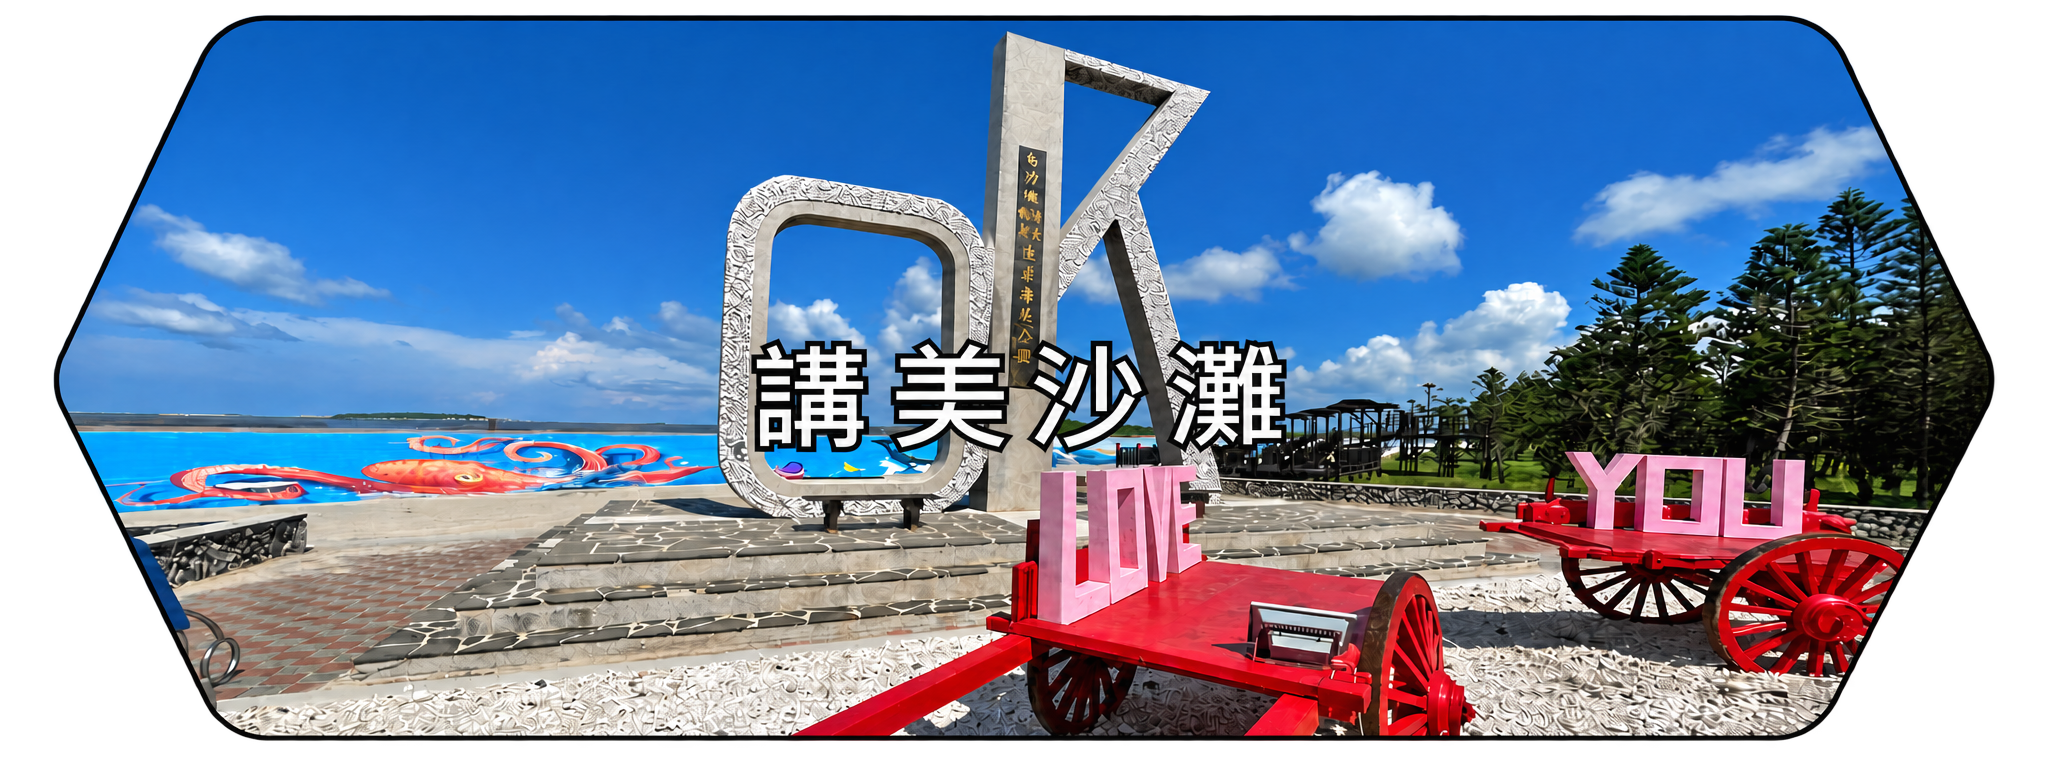
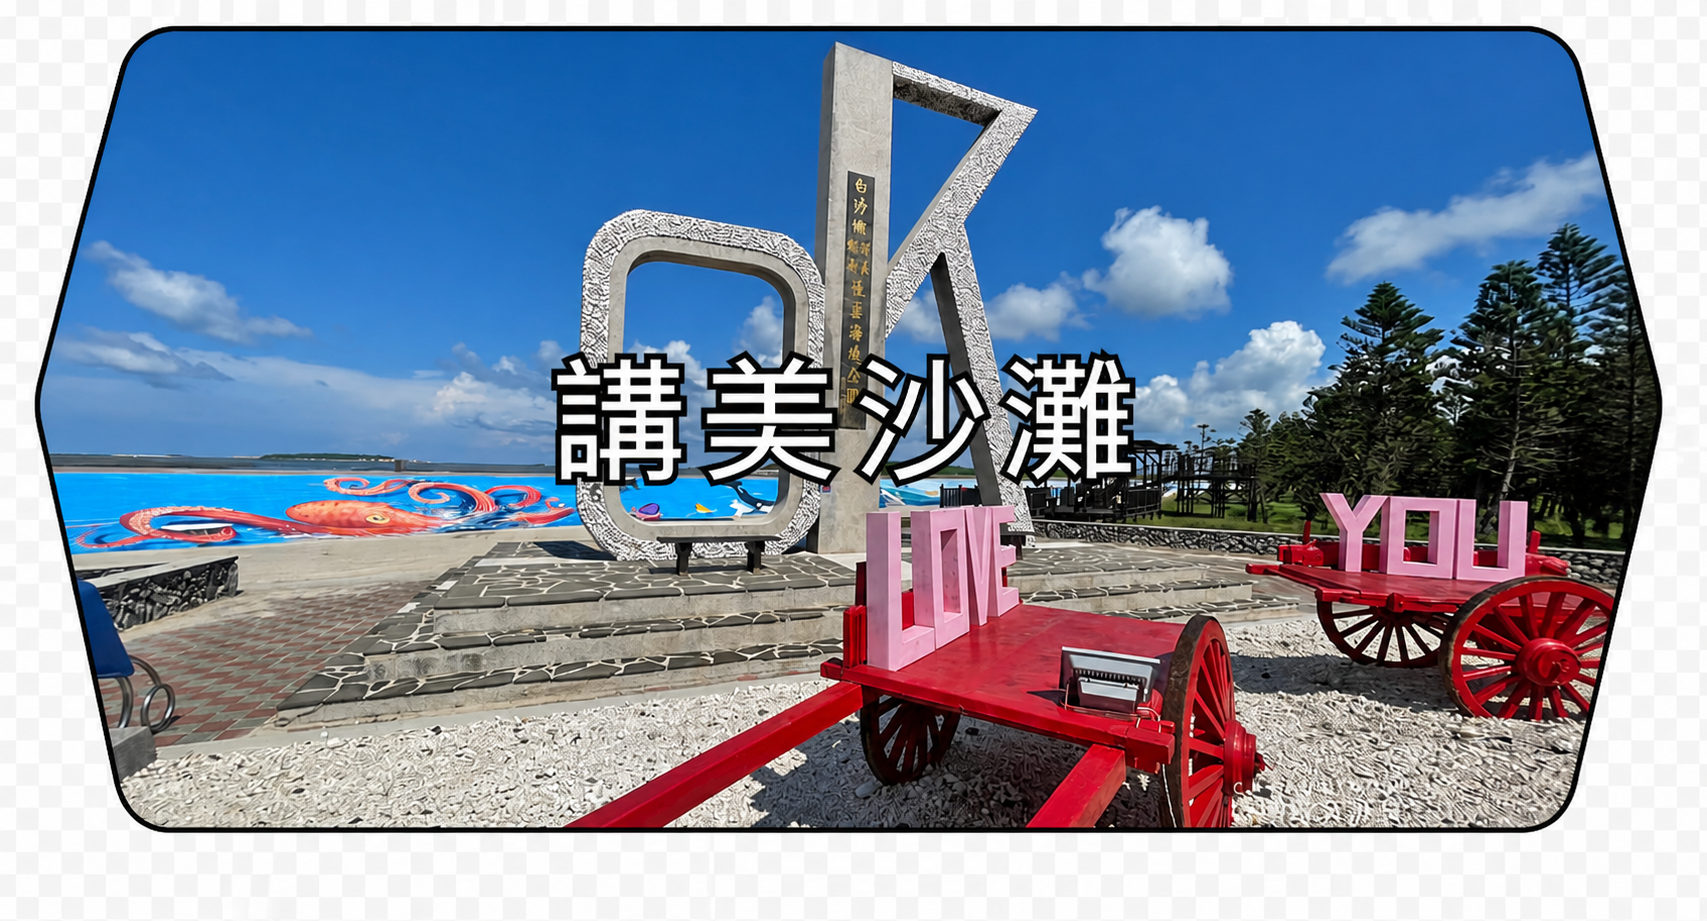
feat: add matching Jiangmei and Zhongtun beach labels

diff --git a/沙灘海洋廢棄物/index.html b/沙灘海洋廢棄物/index.html
@@ -335,7 +335,7 @@ var interval = setInterval(function() {
 								<div class="col-md-4 col-sm-12">
 									<div class="s-btn">
 										<a href="./07_中屯沙灘/index.html" aria-label="前往中屯沙灘頁面">
-											<div class="btn btn-initial beach-card"><span>中屯沙灘</span></div>
+											<img class="btn btn-initial" src="./img/07.png" alt="中屯沙灘">
 										</a>
 									</div>
 								</div>  
